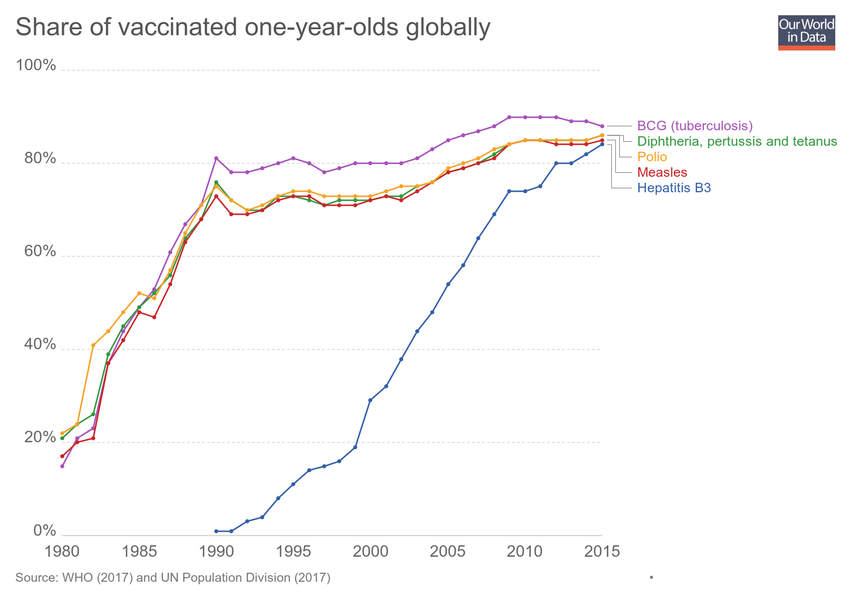
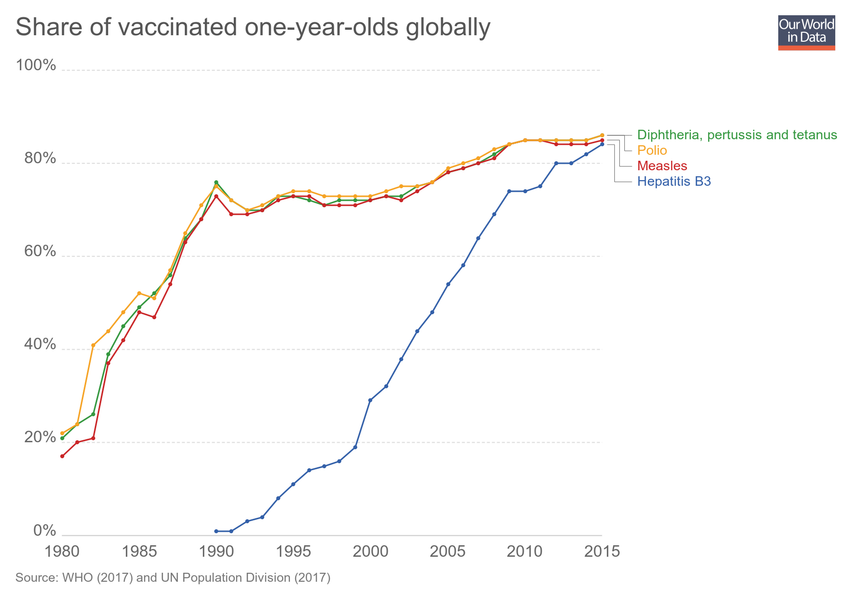
Updating chart share-of-vaccinated-one-year-olds-globally

diff --git a/grapher/share-of-vaccinated-one-year-olds-globally.html b/grapher/share-of-vaccinated-one-year-olds-globally.html
@@ -1,4 +1,4 @@
-<!doctype html><html><head><meta name="viewport" content="width=device-width, initial-scale=1" /><title>Share of vaccinated one-year-olds globally - Our World in Data</title><meta name="description" content="An interactive visualization from Our World in Data." /><link rel="canonical" href="https://ourworldindata.org/grapher/share-of-vaccinated-one-year-olds-globally" /><meta property="fb:app_id" content="1149943818390250" /><meta property="og:url" content="https://ourworldindata.org/grapher/share-of-vaccinated-one-year-olds-globally" /><meta property="og:title" content="Share of vaccinated one-year-olds globally" /><meta property="og:description" content="An interactive visualization from Our World in Data." /><meta property="og:image" content="https://ourworldindata.org/grapher/exports/share-of-vaccinated-one-year-olds-globally.png?v=3" /><meta property="og:image:width" content="850" /><meta property="og:image:height" content="600" /><meta property="og:site_name" content="Our World in Data" /><meta name="twitter:card" content="summary_large_image" /><meta name="twitter:site" content="@OurWorldInData" /><meta name="twitter:creator" content="@OurWorldInData" /><meta name="twitter:title" content="Share of vaccinated one-year-olds globally" /><meta name="twitter:description" content="An interactive visualization from Our World in Data." /><meta name="twitter:image" content="https://ourworldindata.org/grapher/exports/share-of-vaccinated-one-year-olds-globally.png?v=3" /><style>
+<!doctype html><html><head><meta name="viewport" content="width=device-width, initial-scale=1" /><title>Share of vaccinated one-year-olds globally - Our World in Data</title><meta name="description" content="An interactive visualization from Our World in Data." /><link rel="canonical" href="https://ourworldindata.org/grapher/share-of-vaccinated-one-year-olds-globally" /><meta property="fb:app_id" content="1149943818390250" /><meta property="og:url" content="https://ourworldindata.org/grapher/share-of-vaccinated-one-year-olds-globally" /><meta property="og:title" content="Share of vaccinated one-year-olds globally" /><meta property="og:description" content="An interactive visualization from Our World in Data." /><meta property="og:image" content="https://ourworldindata.org/grapher/exports/share-of-vaccinated-one-year-olds-globally.png?v=4" /><meta property="og:image:width" content="850" /><meta property="og:image:height" content="600" /><meta property="og:site_name" content="Our World in Data" /><meta name="twitter:card" content="summary_large_image" /><meta name="twitter:site" content="@OurWorldInData" /><meta name="twitter:creator" content="@OurWorldInData" /><meta name="twitter:title" content="Share of vaccinated one-year-olds globally" /><meta name="twitter:description" content="An interactive visualization from Our World in Data." /><meta name="twitter:image" content="https://ourworldindata.org/grapher/exports/share-of-vaccinated-one-year-olds-globally.png?v=4" /><style>
         html, body {
             height: 100%;
             margin: 0;
@@ -20,8 +20,8 @@
         }
     </style><noscript><style>
                     figure { display: none !important; }
-                </style></noscript><link rel="stylesheet" href="https://ourworldindata.org/grapher/assets/commons.bundle.0cade97703a5a10acaac.css" /><link rel="preload" href="/grapher/data/variables/85783+85784+85785+85787+85786.json?v=3" as="fetch" crossorigin /></head><body class="singleChart"><figure data-grapher-src="/grapher/share-of-vaccinated-one-year-olds-globally"></figure><noscript id="fallback"><img src="/grapher/exports/share-of-vaccinated-one-year-olds-globally.svg" /><p>Interactive visualization requires JavaScript</p></noscript><script src="https://cdn.polyfill.io/v2/polyfill.min.js?features=es6,fetch"></script><script src="https://ourworldindata.org/grapher/assets/commons.bundle.0cade97703a5a10acaac.js"></script><script src="https://ourworldindata.org/grapher/assets/charts.bundle.0cade97703a5a10acaac.js"></script><script>
-        var jsonConfig = {"id":2261,"map":{"projection":"World","colorSchemeLabels":[],"colorSchemeValues":[],"colorSchemeMinValue":0,"customNumericColors":[],"customCategoryColors":{},"customCategoryLabels":{},"customHiddenCategories":{}},"tab":"chart","slug":"share-of-vaccinated-one-year-olds-globally","type":"LineChart","title":"Share of vaccinated one-year-olds globally","xAxis":{"scaleType":"linear"},"yAxis":{"max":100,"min":0,"scaleType":"linear"},"version":3,"hasMapTab":false,"stackMode":"absolute","dimensions":[{"display":{"name":"BCG (tuberculosis)","shortUnit":"%"},"property":"y","variableId":85783},{"display":{"name":"Hepatitis B3"},"property":"y","variableId":85784},{"display":{"name":"Diphtheria, pertussis and tetanus"},"property":"y","variableId":85785},{"display":{"name":"Measles"},"property":"y","variableId":85787},{"display":{"name":"Polio"},"property":"y","variableId":85786}],"hasChartTab":true,"isPublished":true,"selectedData":[{"index":0,"entityId":355},{"index":1,"entityId":355},{"index":2,"entityId":355},{"index":3,"entityId":355},{"index":4,"entityId":355}],"addCountryMode":"disabled","hideTitleAnnotation":true};
+                </style></noscript><link rel="stylesheet" href="https://ourworldindata.org/grapher/assets/commons.bundle.0cade97703a5a10acaac.css" /><link rel="preload" href="/grapher/data/variables/85784+85785+85787+85786.json?v=4" as="fetch" crossorigin /></head><body class="singleChart"><figure data-grapher-src="/grapher/share-of-vaccinated-one-year-olds-globally"></figure><noscript id="fallback"><img src="/grapher/exports/share-of-vaccinated-one-year-olds-globally.svg" /><p>Interactive visualization requires JavaScript</p></noscript><script src="https://cdn.polyfill.io/v2/polyfill.min.js?features=es6,fetch"></script><script src="https://ourworldindata.org/grapher/assets/commons.bundle.0cade97703a5a10acaac.js"></script><script src="https://ourworldindata.org/grapher/assets/charts.bundle.0cade97703a5a10acaac.js"></script><script>
+        var jsonConfig = {"id":2261,"map":{"projection":"World","colorSchemeLabels":[],"colorSchemeValues":[],"colorSchemeMinValue":0,"customNumericColors":[],"customCategoryColors":{},"customCategoryLabels":{},"customHiddenCategories":{}},"tab":"chart","slug":"share-of-vaccinated-one-year-olds-globally","type":"LineChart","title":"Share of vaccinated one-year-olds globally","xAxis":{"scaleType":"linear"},"yAxis":{"max":100,"min":0,"scaleType":"linear"},"version":4,"hasMapTab":false,"stackMode":"absolute","dimensions":[{"display":{"name":"Hepatitis B3"},"property":"y","variableId":85784},{"display":{"name":"Diphtheria, pertussis and tetanus"},"property":"y","variableId":85785},{"display":{"name":"Measles"},"property":"y","variableId":85787},{"display":{"name":"Polio"},"property":"y","variableId":85786}],"hasChartTab":true,"isPublished":true,"selectedData":[{"index":0,"entityId":355},{"index":1,"entityId":355},{"index":2,"entityId":355},{"index":3,"entityId":355},{"index":4,"entityId":355}],"addCountryMode":"disabled","hideTitleAnnotation":true};
         var figure = document.getElementsByTagName("figure")[0];
         try {
             window.App = {};
